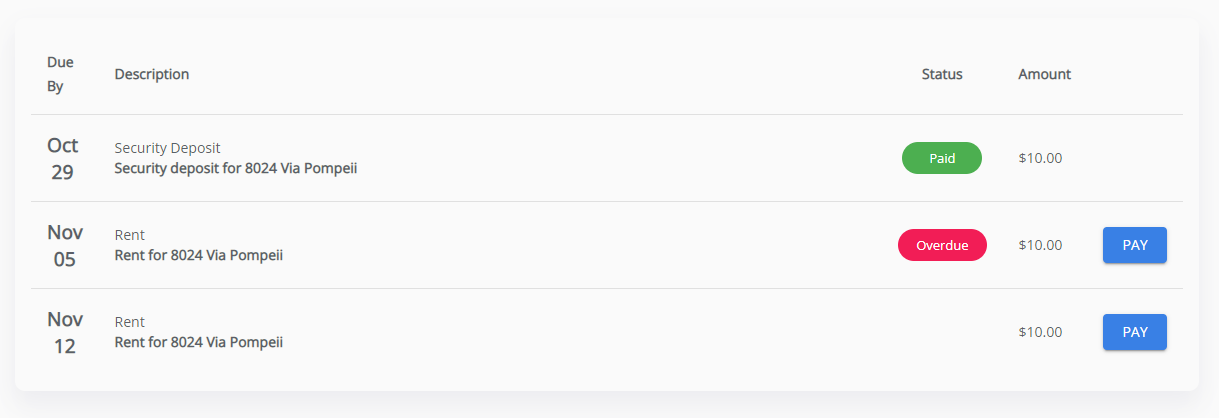
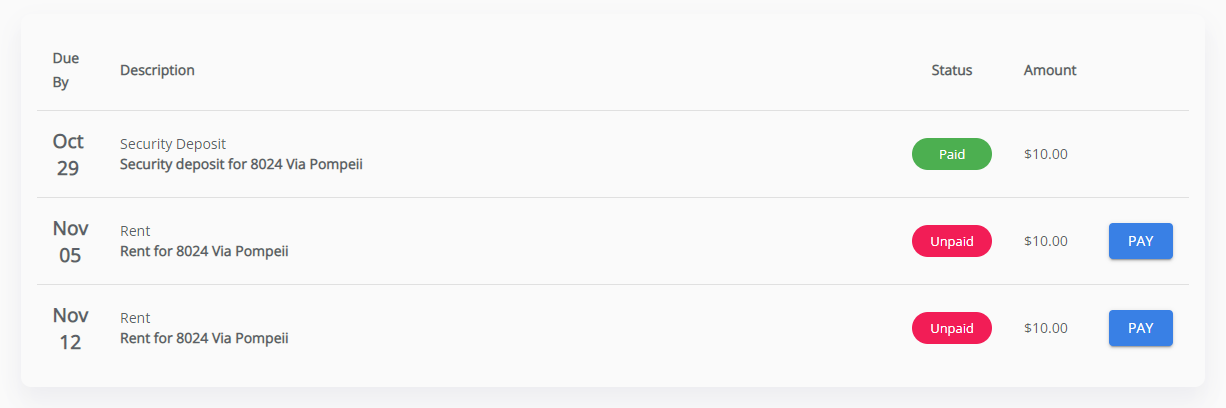
Remove requirement for overdue, readme fixes

diff --git a/README.md b/README.md
@@ -14,6 +14,8 @@ You will be assessed based on the following being met:
 
 - Your website roughly looks like the provided [design](./design-spec/payment_list.png) (please note that nothing has to be exact in terms of the look of the site).
 
+If you run into any issues, or if anything is unclear, please contact us - any feedback will help us improve our test.
+
 ---
 
 ## Frontend
@@ -27,12 +29,12 @@ A basic design for the website can be found [here](./design-spec/payment_list.pn
 **NB:**
 You are not expected to match any of the styles, colours, fonts etc in the given design images exactly. These are just guidelines for how we would roughly like the site to be laid out and look.
 
-When the user navigates to the `Dashboard` for the first time, fetch upcoming rent payments from the included [API](#API), and format them in client readable results.
+When the user navigates to the `Dashboard` for the first time, fetch upcoming rent payments from the included [API](#API), and format them in user readable results.
 
 - The payment due dates should be formatted as MMM DD.
-- The status of each payment should be blank, `Paid`, or `Overdue` depending on the payments status and due date.
-- A pay button should only be displayed for payments that are not `Paid`
-- The amount should be formatted as a US dollar amount (e.g. \$10.00)  
+- The status of each payment should be `Paid` or `Unpaid`, depending on the payments status.
+- A pay button should only be displayed for payments that are not `Paid`.
+- The amount should be formatted as a US dollar amount (e.g. \$10.00).
   **Note**: Payment amounts returned from the API will be in cents and must be converted to dollars.
 - Payments should be listed in ascending chronological order.
 
@@ -40,7 +42,7 @@ If a user clicks on the `Pay` button, a dialog detailed [here](./design-spec/pay
 Upon confirmation, a call should be made to the API that updates the state of that payment to `Paid`.  
 The result of that call should be used to then update the status of that transaction in the list that is displayed to the user.
 
-**To get started, make changes to `~/src/pages/index.ts`.**
+**To get started, make changes to `~/src/pages/index.tsx`.**
 
 A basic index page has been fleshed out for you that fetches raw payment data from the API - this is just an example and does not indicate any code, patterns, styles, or naming convetions that we expect you to follow or use, feel free to make changes as you see fit.
 
